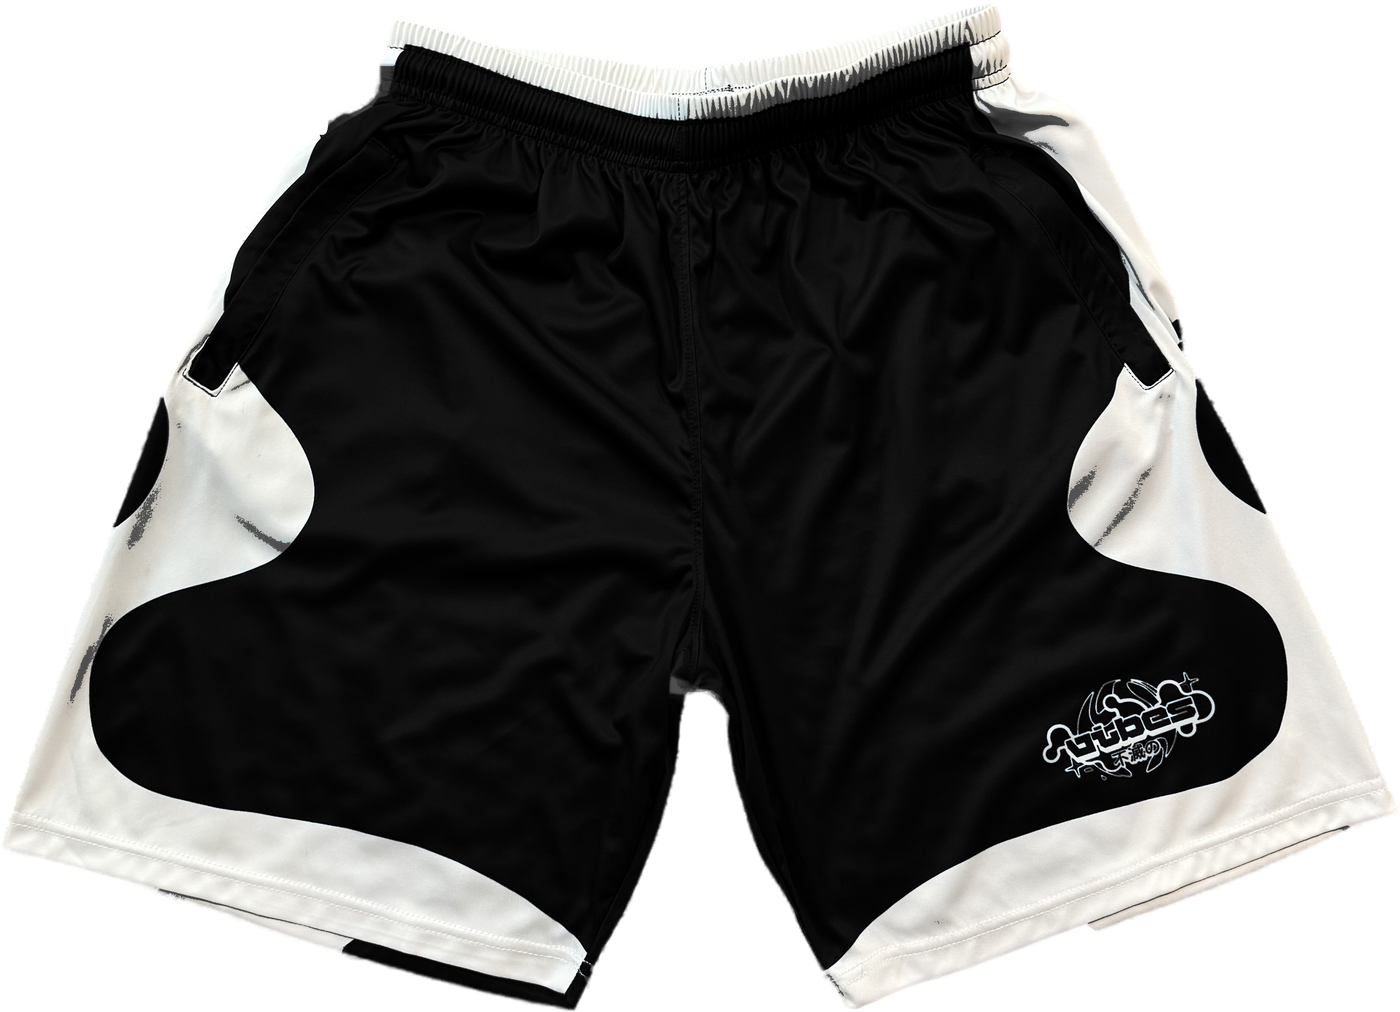
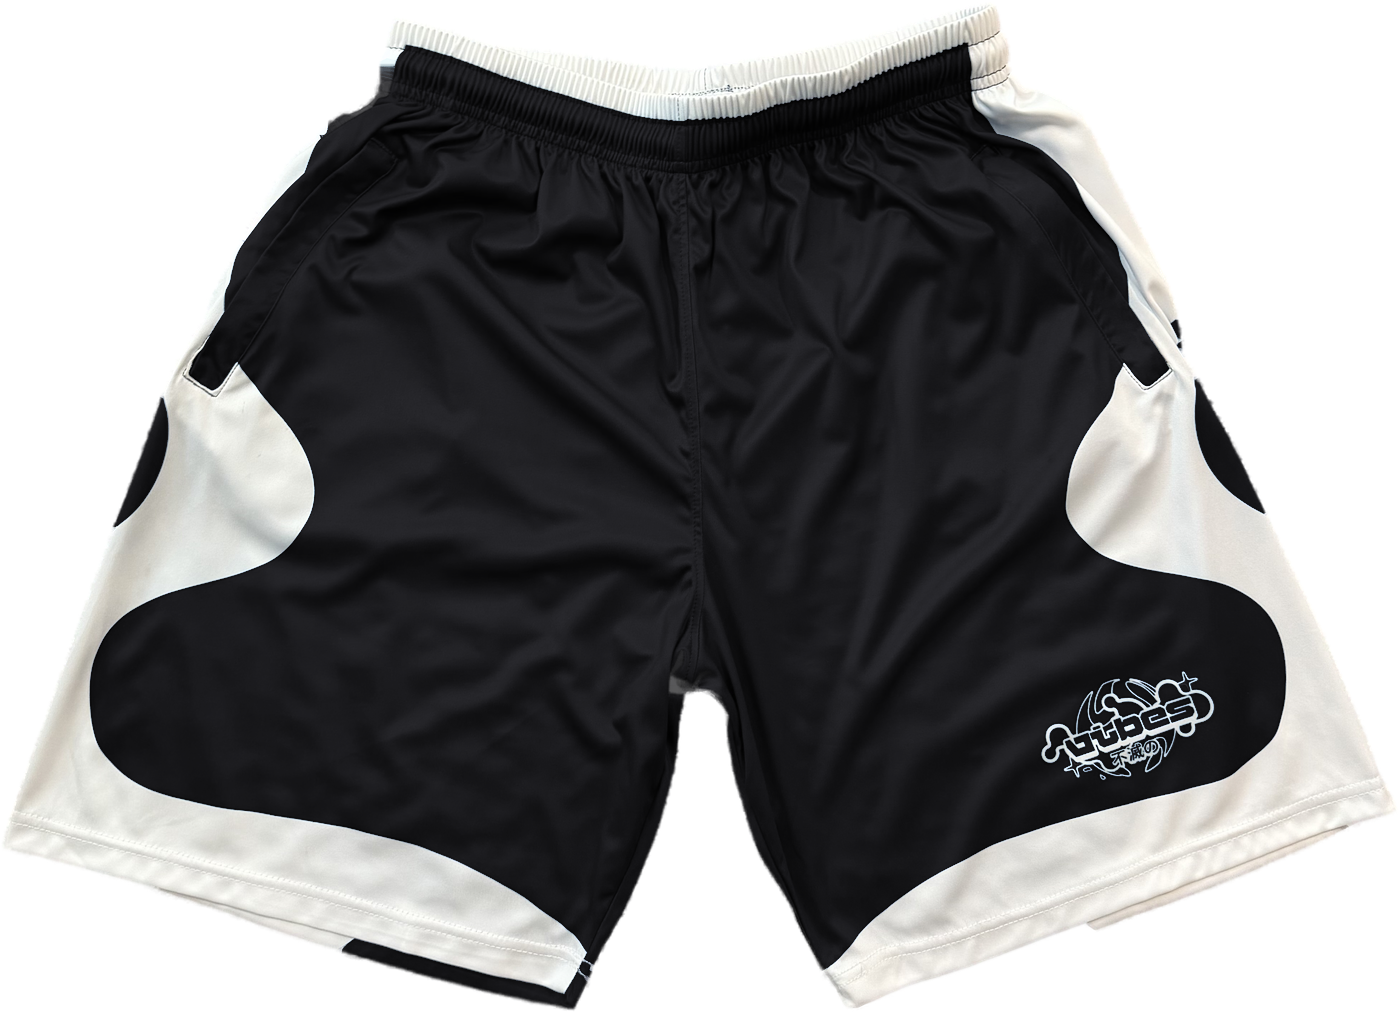
fix(phantom): correct 'embroidered' copy + remove black-recolor smudges (#13)
Owner feedback on the PHANTOM black colorway product page:

1. Description claimed an "embroidered Immortal Vibes logo" — it isn't.
   Dropped the false material claim from shop.ts.

2. The black flat-lay (product-phantom-shorts-black.png) carried gray
   smudges on the white side panels — bleed from last session's global
   navy->black recolor darkening navy-tinted shadows on the panels.
   Regenerated from the clean navy cutout via a hue-selective recolor
   (only blue garment pixels -> black; neutral white panels untouched),
   so the panels stay pristine while folds + logo are preserved.

diff --git a/web/src/lib/types/shop.ts b/web/src/lib/types/shop.ts
@@ -220,7 +220,7 @@ export const MOCK_PRODUCTS: Product[] = [
     id: 'mock_006',
     slug: SLUG.phantomShorts,
     name: 'Phantom Basketball Shorts',
-    description: 'Cut for the deep-space court. Electric-white side panels, embroidered Immortal Vibes logo, and an elastic drawstring waist. Available in navy and black. Unisex fit.',
+    description: 'Cut for the deep-space court. Electric-white side panels, Immortal Vibes logo, and an elastic drawstring waist. Available in navy and black. Unisex fit.',
     price_usd: 2000, // $20 (Eric, 2026-09-04)
     price_gbp: 1600, // £16 — derived from IV's $30/£24 (0.8) ratio; confirm
     price_id: '',
